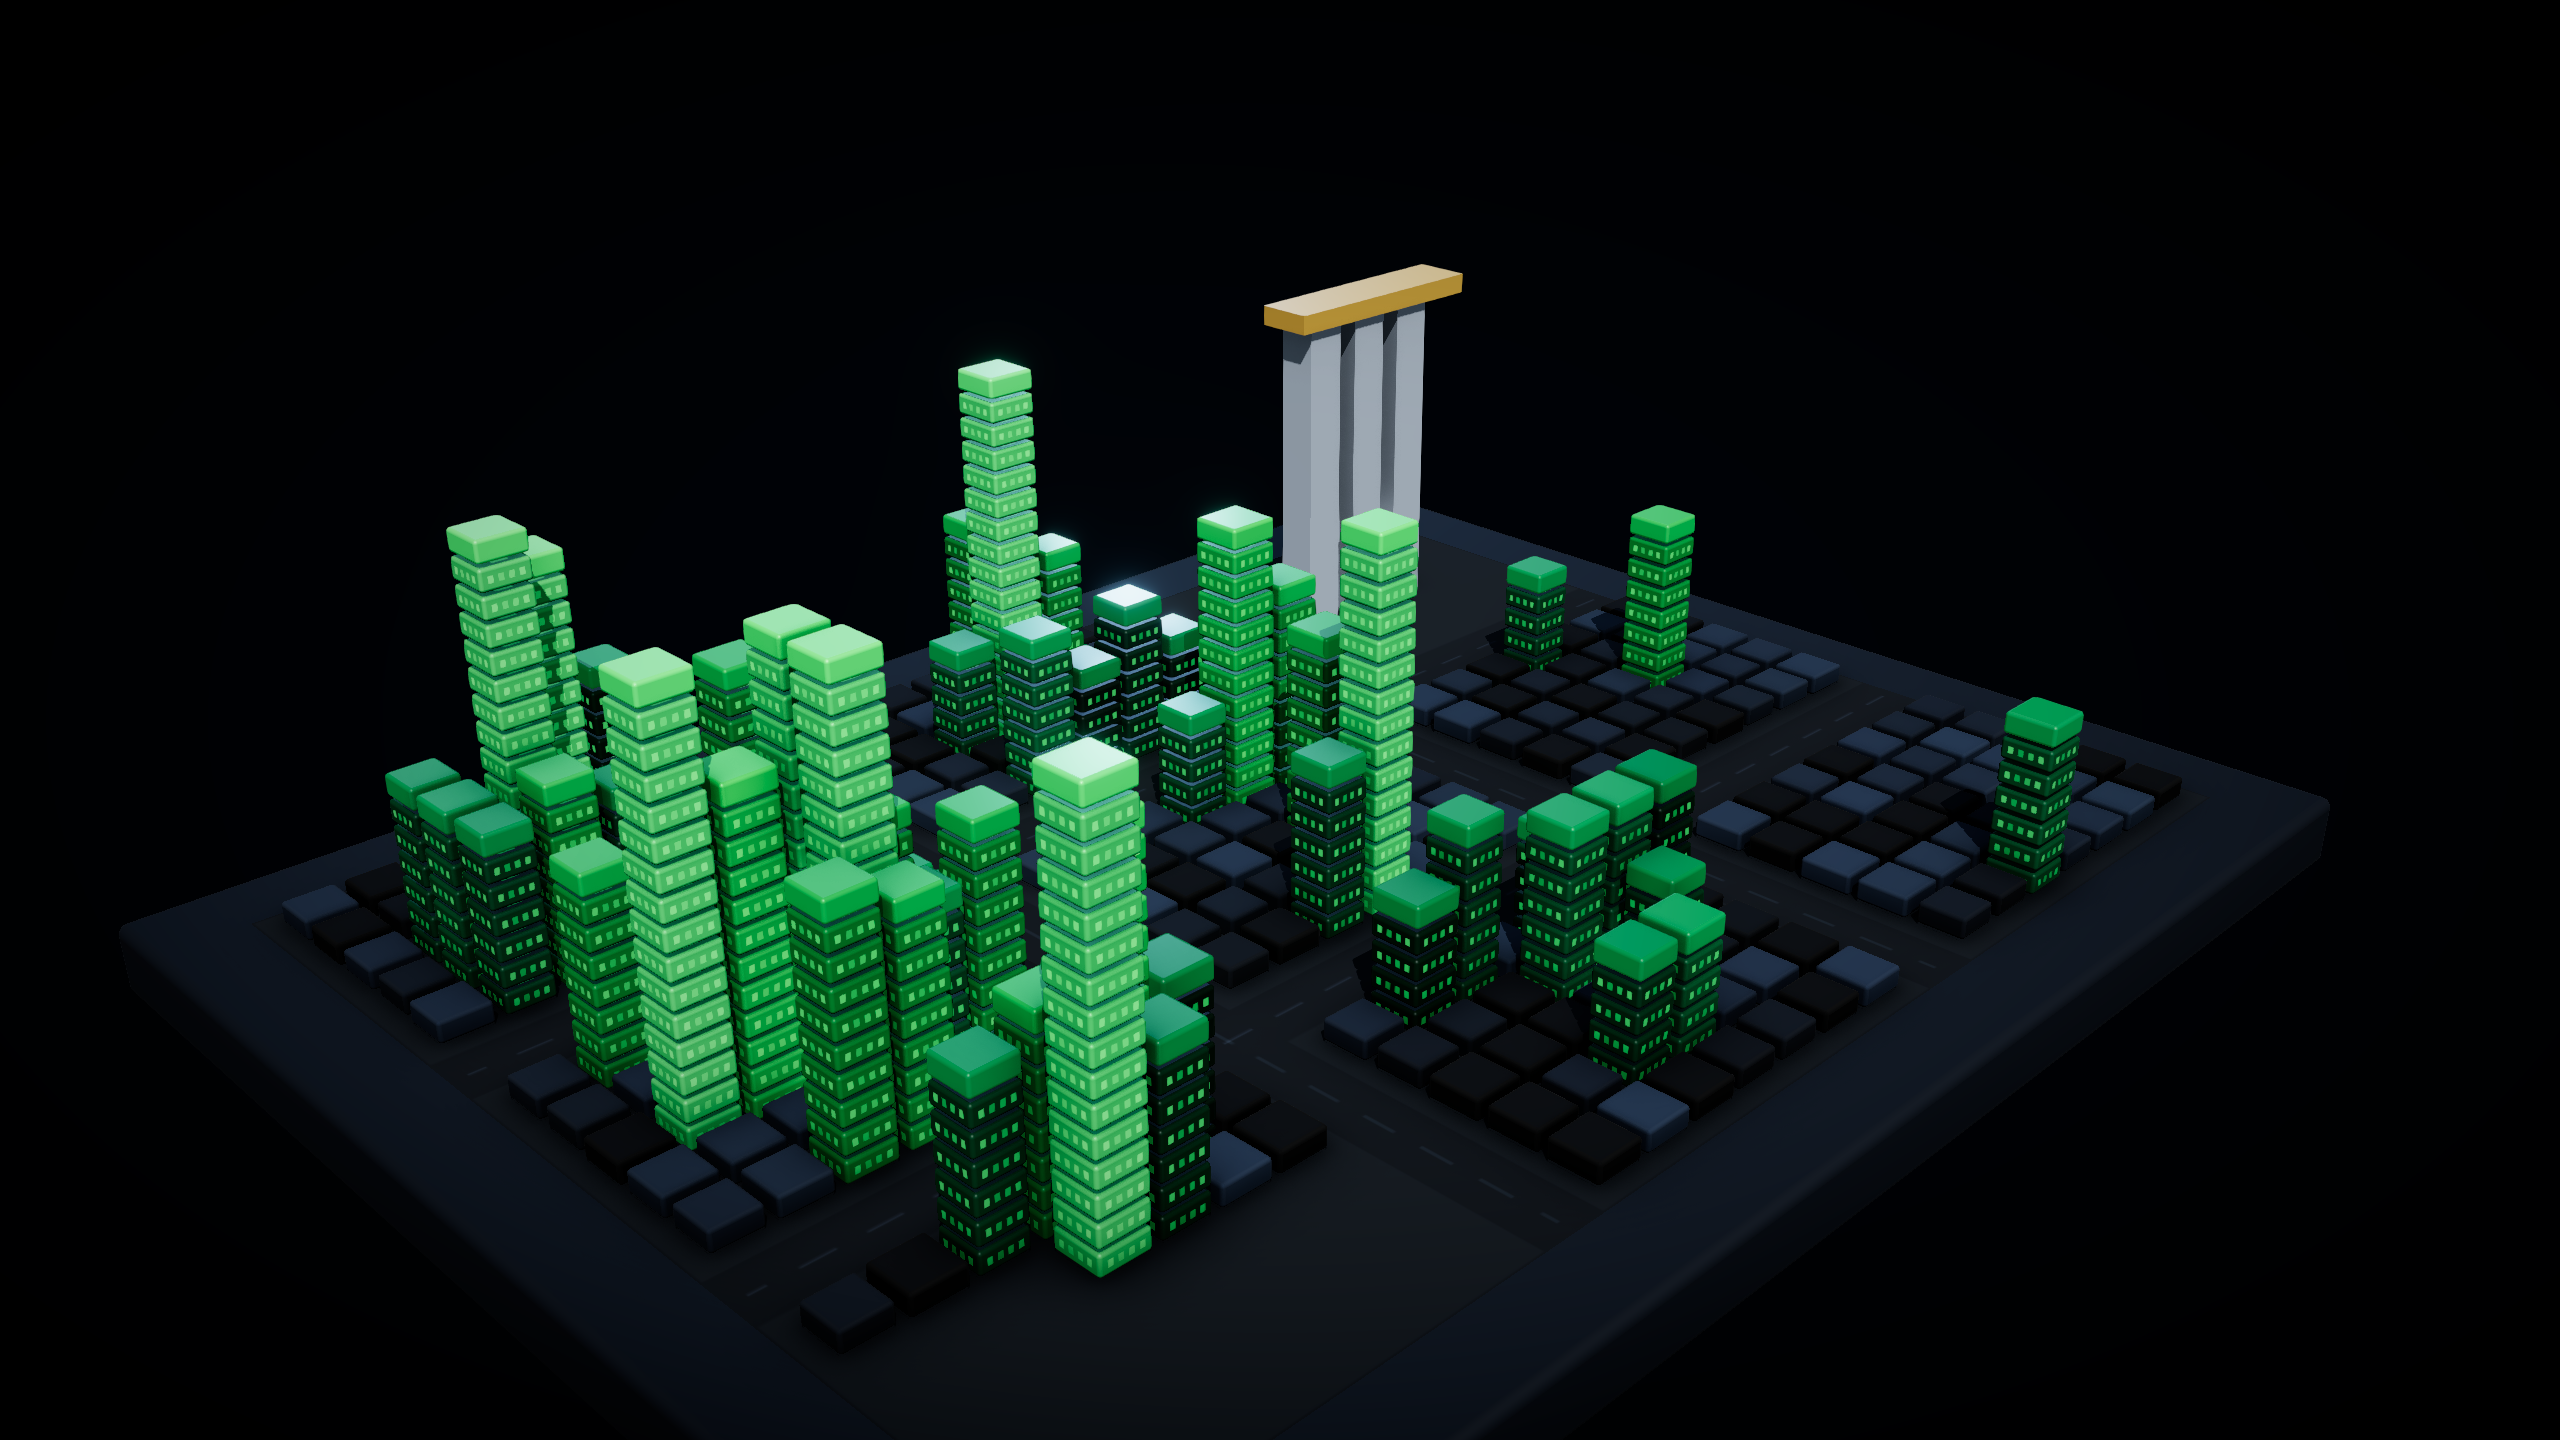
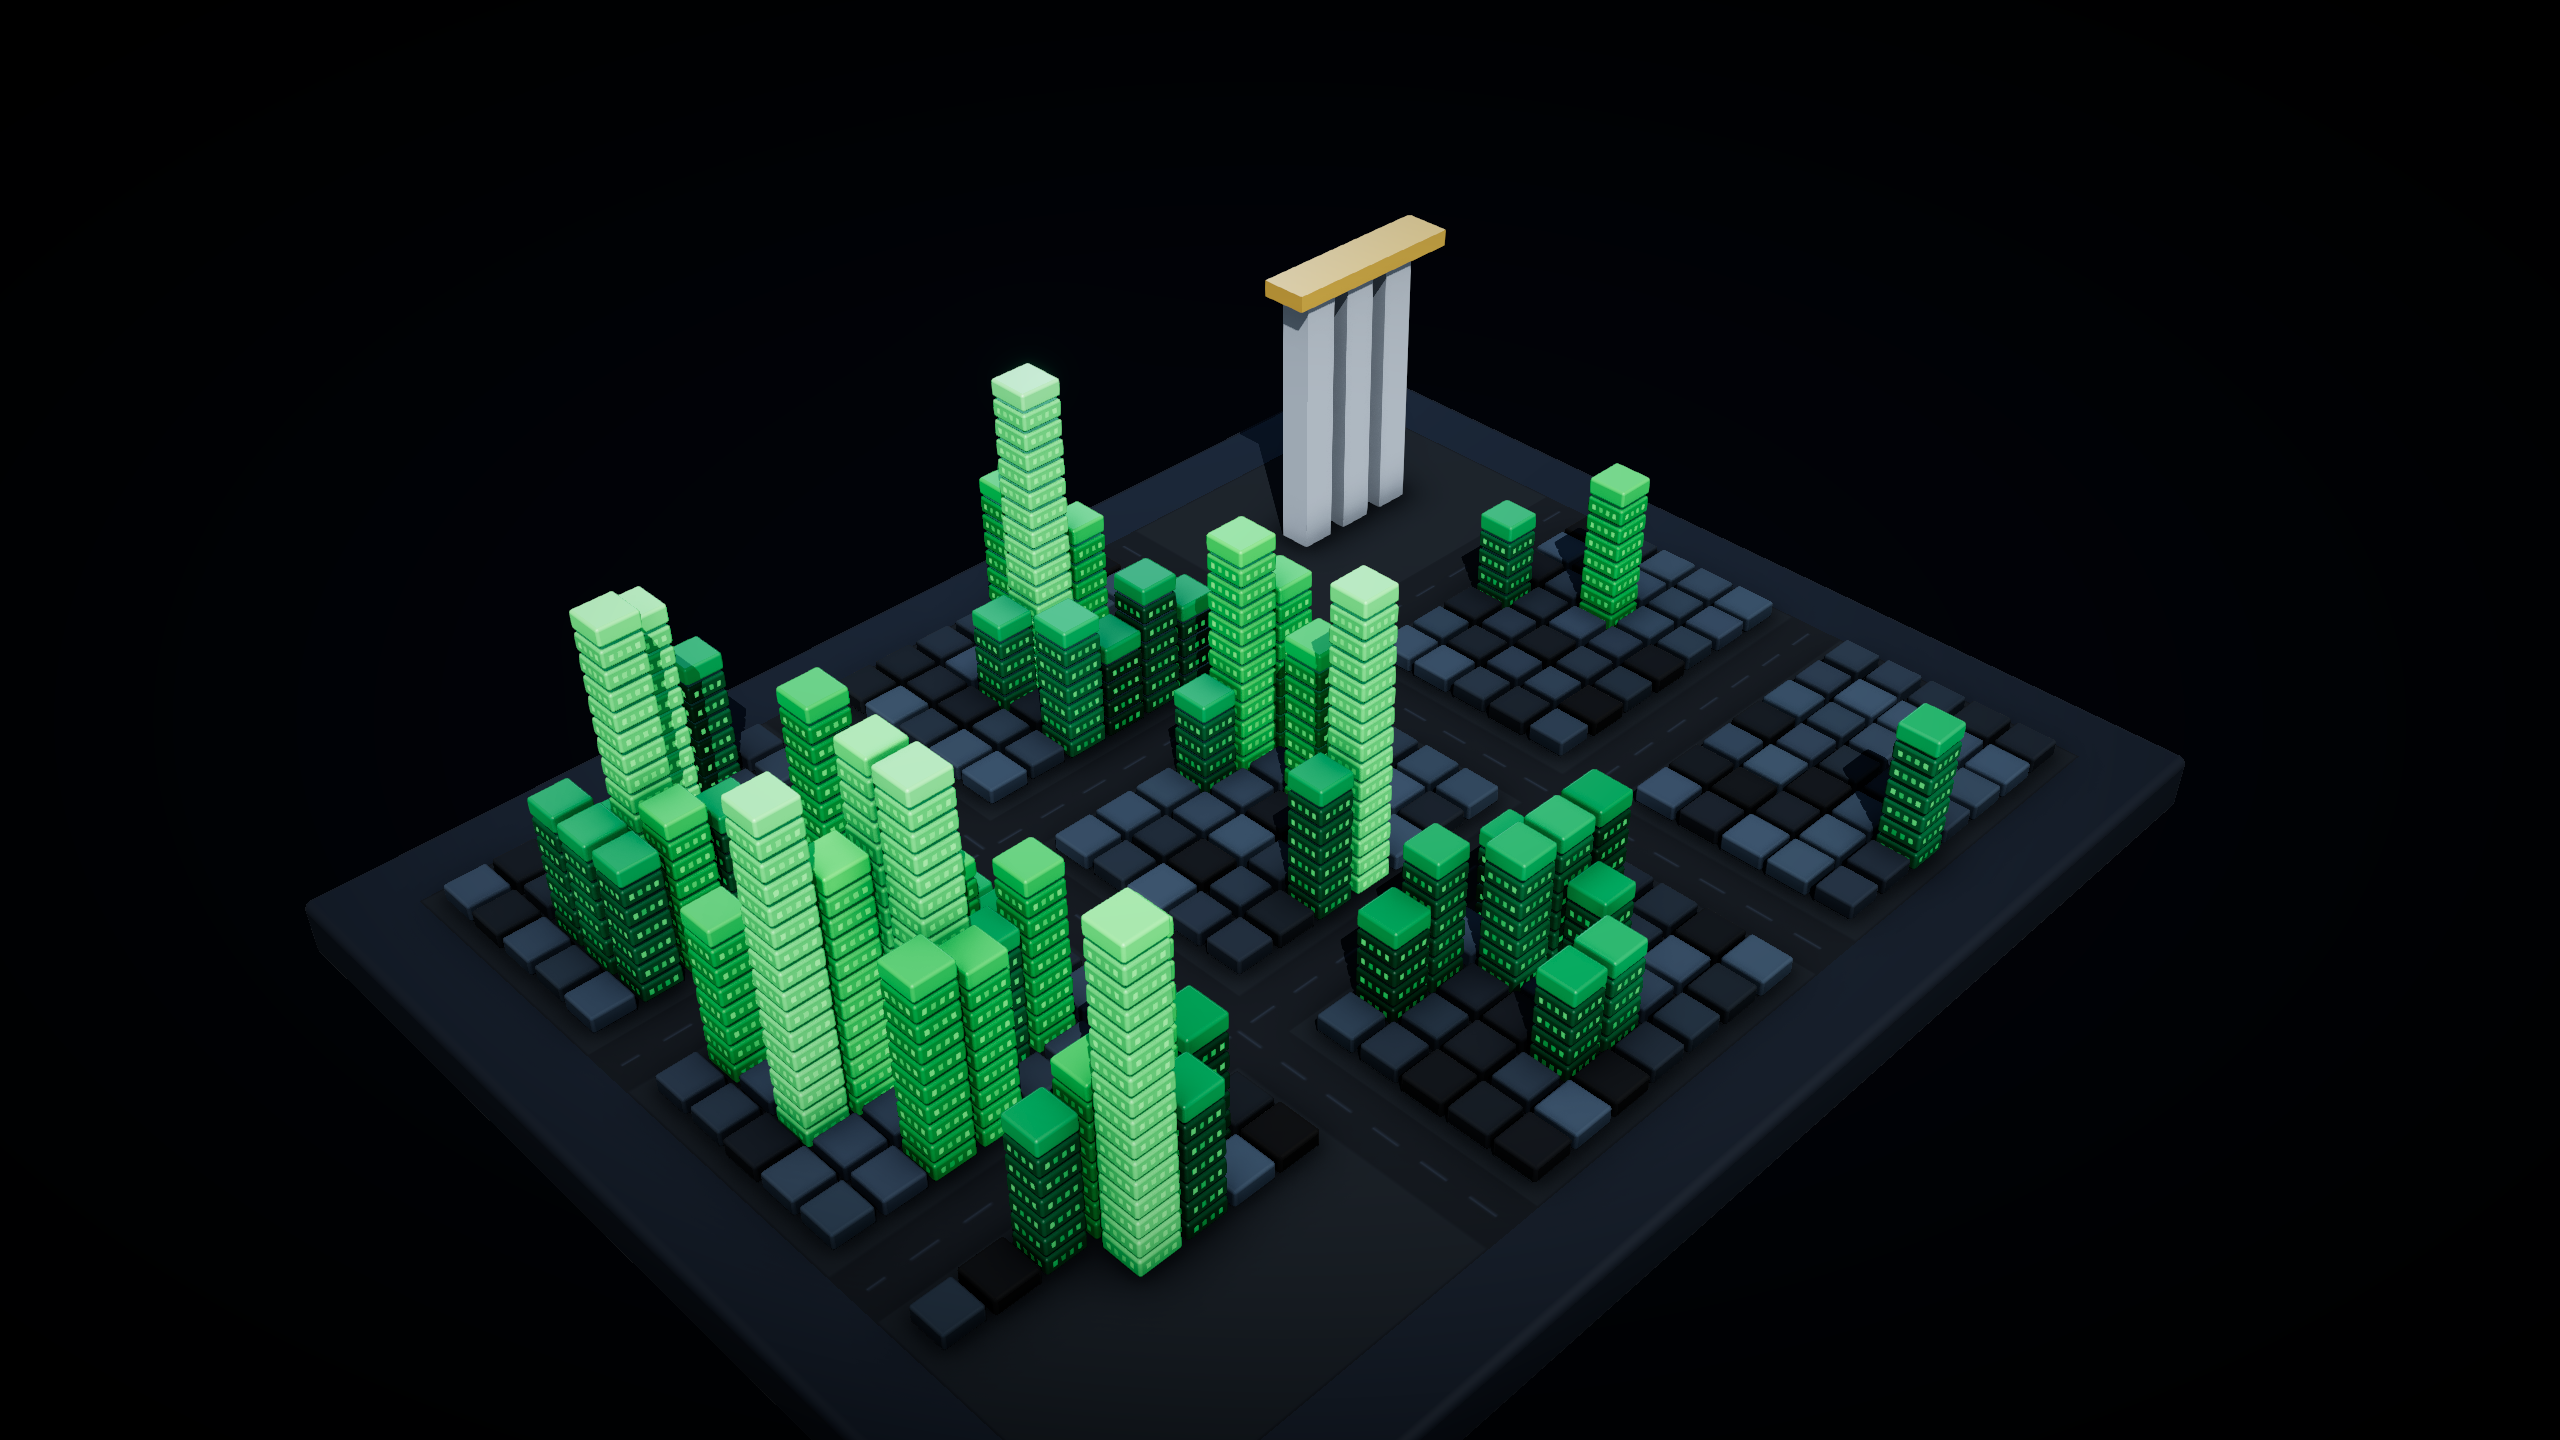
Push the look closer to the reference: isometric angle, brighter grade
- Camera raised from ~28 to ~40 degrees elevation. The reference reads as a
  proper isometric city; the lower hero angle hid the street grid.
- Exposure 1.05 -> 1.28 and ambient 0.12 -> 0.2. The previous grade was
  accurate but sat too deep in shadow to pop.
- Lifted the darkest palette step well off the background and boosted the
  greens. Near-black zero-day blocks were a big part of why the city read as
  half-empty rather than built-up.
- GAP 0.10 -> 0.06 so buildings nearly touch, giving the blocks more mass.
- Camera-fit floor retuned for the higher angle so the near plinth corner
  stops clipping the bottom edge.

diff --git a/src/scene/Scene.tsx b/src/scene/Scene.tsx
@@ -30,7 +30,7 @@ export function Scene({ theme, data, customBuildings }: Props) {
   const { position: camPos, target } = theme.camera
   // Floored: towers keep their absolute height, so pulling the camera all the
   // way in on a narrow city crops them off the top and sides.
-  const fit = Math.max(0.92, layout.cityWidth / REFERENCE_CITY_WIDTH)
+  const fit = Math.max(0.95, layout.cityWidth / REFERENCE_CITY_WIDTH)
   const landmarkScale = layout.blockW / REFERENCE_BLOCK_W
   const cam: [number, number, number] = [camPos.x * fit, camPos.y * fit, camPos.z * fit]
   const shadowExtent = layout.cityWidth * 0.7
@@ -39,7 +39,7 @@ export function Scene({ theme, data, customBuildings }: Props) {
     <Canvas
       shadows
       dpr={[1, 2]}
-      gl={{ antialias: false, toneMapping: ACESFilmicToneMapping, toneMappingExposure: 1.05 }}
+      gl={{ antialias: false, toneMapping: ACESFilmicToneMapping, toneMappingExposure: 1.28 }}
     >
       <color attach="background" args={[theme.background.sky[0]]} />
       <fog attach="fog" args={[theme.background.fogColor, theme.background.fogNear, theme.background.fogFar]} />
@@ -72,7 +72,7 @@ export function Scene({ theme, data, customBuildings }: Props) {
       <directionalLight position={[-16, 8, -14]} intensity={0.35} color="#7ea6d8" />
       {/* Deliberately dim: the contrast comes from the key light and AO, and
           lifting ambient is what flattens a render into looking like a toy. */}
-      <ambientLight intensity={0.12} />
+      <ambientLight intensity={0.2} />
 
       {/* Built from Lightformers rather than an HDRI preset so it needs no
           network fetch -- gives the materials something to actually reflect,

diff --git a/src/themes/singapore.ts b/src/themes/singapore.ts
@@ -17,7 +17,7 @@ export const singapore: Theme = {
   palette: {
     ground: "#0b1219",
     plinth: "#161f2a",
-    levels: ["#16202c", "#0b4f2e", "#00913e", "#22c455", "#45e474"],
+    levels: ["#26333f", "#0e5c36", "#00a447", "#2ad35f", "#4df07c"],
     glow: "#37e06a",
   },
   landmarks: [
@@ -30,7 +30,7 @@ export const singapore: Theme = {
     { id: "mbs-deck", type: "box", position: { x: 0, y: TOWER_H, z: -0.35 }, size: { x: 1.35, y: 0.46, z: 5.6 }, color: "#e8b44a" },
   ],
   camera: {
-    position: { x: 24, y: 18, z: 24 },
+    position: { x: 23, y: 27, z: 23 },
     target: { x: 0, y: 2.2, z: 0 },
   },
 }

diff --git a/src/themes/paris.ts b/src/themes/paris.ts
@@ -15,7 +15,7 @@ export const paris: Theme = {
   palette: {
     ground: "#0b1219",
     plinth: "#161f2a",
-    levels: ["#16202c", "#0b4f2e", "#00913e", "#22c455", "#45e474"],
+    levels: ["#26333f", "#0e5c36", "#00a447", "#2ad35f", "#4df07c"],
     glow: "#37e06a",
   },
   landmarks: [
@@ -28,7 +28,7 @@ export const paris: Theme = {
     { id: "eiffel-antenna", type: "cylinder", position: { x: 0, y: 9.2, z: 0 }, size: { x: 0.15, y: 1.4, z: 0.15 }, color: iron },
   ],
   camera: {
-    position: { x: 24, y: 18, z: 24 },
+    position: { x: 23, y: 27, z: 23 },
     target: { x: 0, y: 2.2, z: 0 },
   },
 }

diff --git a/src/themes/generic.ts b/src/themes/generic.ts
@@ -12,12 +12,12 @@ export const generic: Theme = {
   palette: {
     ground: "#0b1219",
     plinth: "#161f2a",
-    levels: ["#16202c", "#0b4f2e", "#00913e", "#22c455", "#45e474"],
+    levels: ["#26333f", "#0e5c36", "#00a447", "#2ad35f", "#4df07c"],
     glow: "#37e06a",
   },
   landmarks: [],
   camera: {
-    position: { x: 24, y: 18, z: 24 },
+    position: { x: 23, y: 27, z: 23 },
     target: { x: 0, y: 2.2, z: 0 },
   },
 }

diff --git a/src/utils/grid.ts b/src/utils/grid.ts
@@ -5,7 +5,7 @@ import type { ContributionWeek } from "../data/types"
 // on a 3x3 grid with streets between them, giving a square footprint. Eight
 // slots take data; the ninth is left free for the theme's landmark.
 export const CELL_SIZE = 0.82
-export const GAP = 0.1
+export const GAP = 0.06
 export const STEP = CELL_SIZE + GAP
 
 /** Height of one stacked cube. Towers are built by stacking these. */
